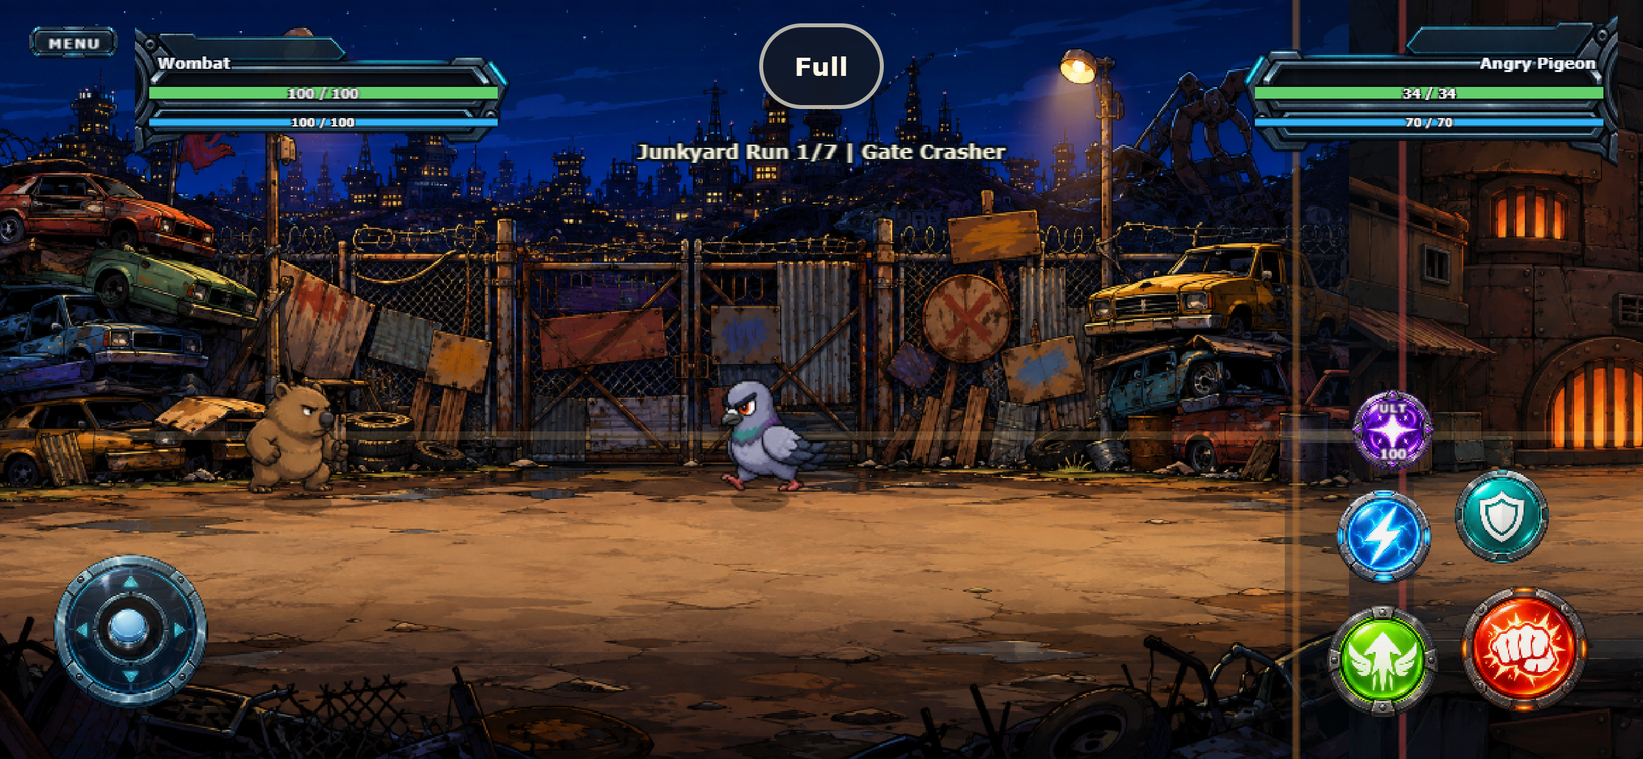
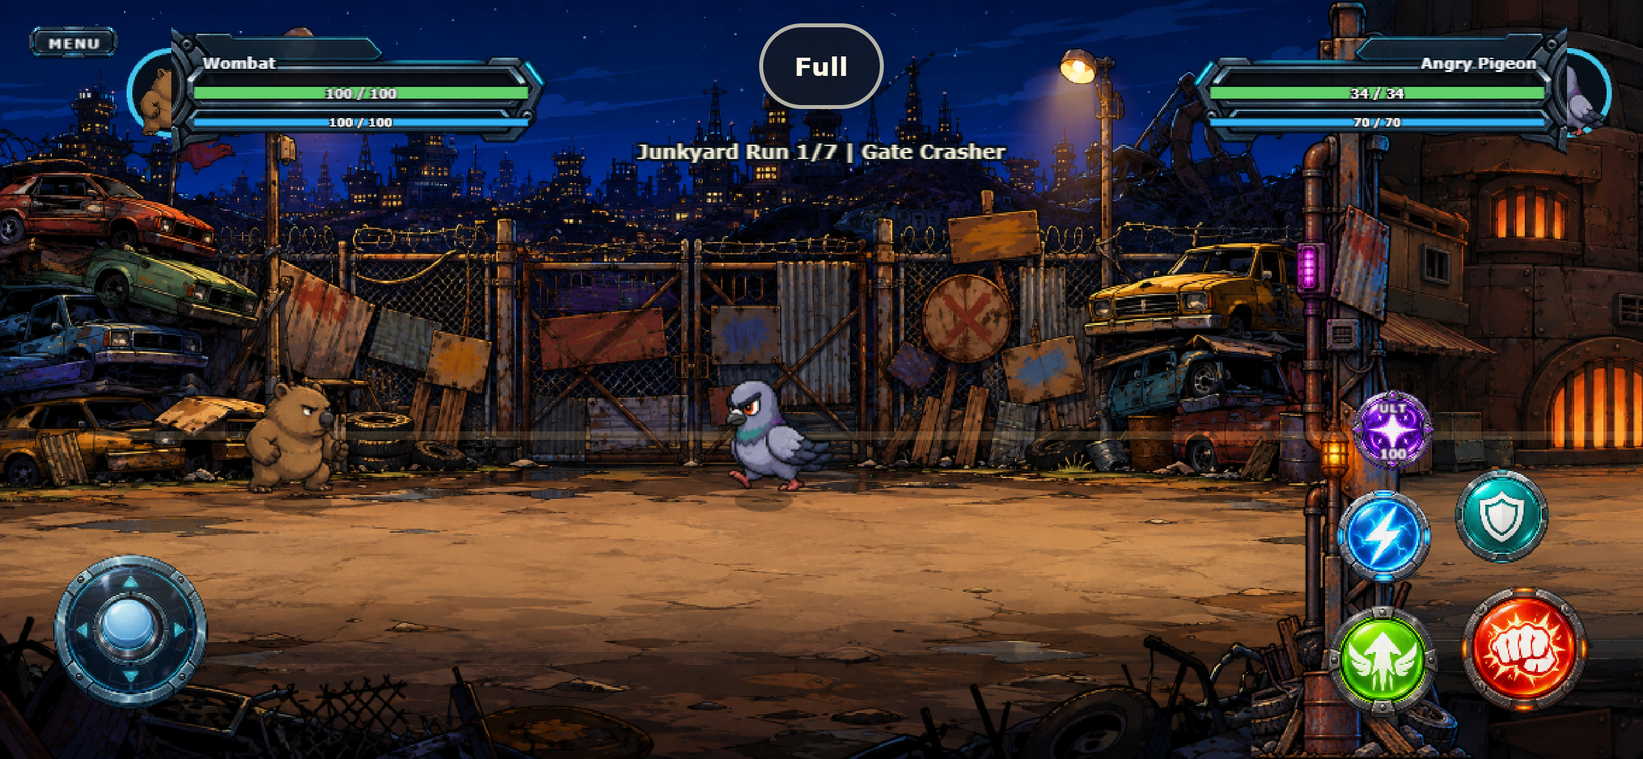
Polish battle HUD and zone transitions

diff --git a/src/game/ui/Hud.ts b/src/game/ui/Hud.ts
@@ -1,8 +1,11 @@
 import Phaser from 'phaser';
 import type { Fighter } from '../combat/Fighter';
-import { HUD_LAYOUT } from './HudLayout';
+import { getHudBarMetrics, HUD_LAYOUT } from './HudLayout';
 
 type BarElements = {
+  portraitBackdrop: Phaser.GameObjects.Arc;
+  portraitMaskShape: Phaser.GameObjects.Arc;
+  portrait: Phaser.GameObjects.Image;
   frame: Phaser.GameObjects.Image;
   label: Phaser.GameObjects.Text;
   hpBackground: Phaser.GameObjects.Rectangle;
@@ -13,13 +16,17 @@ type BarElements = {
   manaText: Phaser.GameObjects.Text;
   side: 'left' | 'right';
   y: number;
+  frameWidth: number;
+  isBossFrame: boolean;
 };
 
 const LARGE_FRAME_WIDTH = 270;
 const SMALL_FRAME_WIDTH = 218;
-const FRAME_HEIGHT_RATIO = 190 / 512;
+const PLAYER_FRAME_HEIGHT_RATIO = 190 / 512;
+const BOSS_FRAME_HEIGHT_RATIO = 160 / 512;
 const HP_BAR_HEIGHT = 12;
 const MANA_BAR_HEIGHT = 8;
+const PORTRAIT_ART_SIZE = 66;
 
 export class Hud {
   private readonly playerBar: BarElements;
@@ -29,12 +36,12 @@ export class Hud {
   constructor(scene: Phaser.Scene, viewportWidth: number) {
     this.viewportWidth = viewportWidth;
     this.playerBar = this.createBar(scene, HUD_LAYOUT.player.x, HUD_LAYOUT.player.y, 'Wombat', 'left');
-    this.enemyBar = this.createBar(scene, viewportWidth - 18, HUD_LAYOUT.enemy.y, 'Enemy', 'right');
+    this.enemyBar = this.createBar(scene, viewportWidth - HUD_LAYOUT.enemy.rightInset, HUD_LAYOUT.enemy.y, 'Enemy', 'right');
     this.layout(viewportWidth);
   }
 
   update(player: Fighter, enemy: Fighter | null, enemyLabelOverride?: string): void {
-    this.updateBar(this.playerBar, player.label, player.hp, player.maxHp, player.mana, player.maxMana);
+    this.updateBar(this.playerBar, player, player.label);
 
     if (!enemy) {
       this.setBarVisible(this.enemyBar, false);
@@ -43,19 +50,28 @@ export class Hud {
 
     this.setBarVisible(this.enemyBar, true);
     const isBoss = enemyLabelOverride?.startsWith('BOSS') ?? false;
-    this.enemyBar.frame.setTexture(isBoss ? 'ui-boss-hud-frame' : 'ui-player-hud-frame').setFlipX(!isBoss);
-    this.updateBar(this.enemyBar, enemyLabelOverride ?? enemy.label, enemy.hp, enemy.maxHp, enemy.mana, enemy.maxMana);
+    this.setFrameMode(this.enemyBar, isBoss);
+    this.updateBar(this.enemyBar, enemy, enemyLabelOverride ?? enemy.label);
   }
 
   layout(viewportWidth: number): void {
     this.viewportWidth = viewportWidth;
     const frameWidth = viewportWidth < 720 ? SMALL_FRAME_WIDTH : LARGE_FRAME_WIDTH;
     this.layoutBar(this.playerBar, HUD_LAYOUT.player.x, frameWidth);
-    this.layoutBar(this.enemyBar, viewportWidth - 18, frameWidth);
+    this.layoutBar(this.enemyBar, viewportWidth - HUD_LAYOUT.enemy.rightInset, frameWidth);
   }
 
   private createBar(scene: Phaser.Scene, x: number, y: number, label: string, side: 'left' | 'right'): BarElements {
     const isLeft = side === 'left';
+    const portraitBackdrop = scene.add.circle(x, y, HUD_LAYOUT.portraitRadius, 0x071019, 0.98)
+      .setStrokeStyle(4, isLeft ? 0x48d9ff : 0xff4ea5, 0.9)
+      .setDepth(1996).setScrollFactor(0);
+    const portraitMaskShape = scene.add.circle(x, y, HUD_LAYOUT.portraitRadius - 4, 0xffffff, 0.001)
+      .setDepth(1995).setScrollFactor(0);
+    const portrait = scene.add.image(x, y + 2, 'wombat', 0)
+      .setDisplaySize(PORTRAIT_ART_SIZE, PORTRAIT_ART_SIZE)
+      .setFlipX(!isLeft).setDepth(1997).setScrollFactor(0)
+      .setMask(portraitMaskShape.createGeometryMask());
     const frame = scene.add.image(x, y, isLeft ? 'ui-player-hud-frame' : 'ui-boss-hud-frame')
       .setOrigin(isLeft ? 0 : 1, 0.5).setDepth(1998).setScrollFactor(0).setAlpha(0.96);
     const text = scene.add.text(x, y + HUD_LAYOUT.labelOffsetY, label, {
@@ -77,7 +93,23 @@ export class Hud {
       .setOrigin(isLeft ? 0 : 1, 0.5).setDepth(2000).setScrollFactor(0);
     const manaText = this.createValueText(scene).setFontSize('8px');
 
-    return { frame, label: text, hpBackground, hpFill, hpText, manaBackground, manaFill, manaText, side, y };
+    return {
+      portraitBackdrop,
+      portraitMaskShape,
+      portrait,
+      frame,
+      label: text,
+      hpBackground,
+      hpFill,
+      hpText,
+      manaBackground,
+      manaFill,
+      manaText,
+      side,
+      y,
+      frameWidth: LARGE_FRAME_WIDTH,
+      isBossFrame: !isLeft,
+    };
   }
 
   private createValueText(scene: Phaser.Scene): Phaser.GameObjects.Text {
@@ -94,11 +126,15 @@ export class Hud {
   private layoutBar(bar: BarElements, x: number, frameWidth: number): void {
     const isLeft = bar.side === 'left';
     const direction = isLeft ? 1 : -1;
-    const barWidth = frameWidth - 22;
-    const insetX = x + direction * 10;
+    const { inset, width: barWidth } = getHudBarMetrics(frameWidth);
+    const insetX = x + direction * inset;
     const centerX = insetX + direction * barWidth * 0.5;
-    const frameHeight = frameWidth * FRAME_HEIGHT_RATIO;
+    const frameHeight = frameWidth * (bar.isBossFrame ? BOSS_FRAME_HEIGHT_RATIO : PLAYER_FRAME_HEIGHT_RATIO);
 
+    bar.frameWidth = frameWidth;
+    bar.portraitBackdrop.setPosition(x, bar.y);
+    bar.portraitMaskShape.setPosition(x, bar.y);
+    bar.portrait.setPosition(x, bar.y + 2);
     bar.frame.setPosition(x, bar.y).setDisplaySize(frameWidth, frameHeight);
     bar.label.setPosition(insetX + direction * 4, bar.y + HUD_LAYOUT.labelOffsetY);
     bar.label.setFontSize(frameWidth === SMALL_FRAME_WIDTH ? '9px' : `${HUD_LAYOUT.labelFontSize}px`);
@@ -110,12 +146,17 @@ export class Hud {
     bar.manaText.setPosition(centerX, bar.y + 21);
   }
 
-  private updateBar(bar: BarElements, label: string, hp: number, maxHp: number, mana: number, maxMana: number): void {
+  private updateBar(bar: BarElements, fighter: Fighter, label: string): void {
+    const { hp, maxHp, mana, maxMana } = fighter;
     const hpRatio = maxHp > 0 ? Phaser.Math.Clamp(hp / maxHp, 0, 1) : 0;
     const manaRatio = maxMana > 0 ? Phaser.Math.Clamp(mana / maxMana, 0, 1) : 0;
-    const frameWidth = this.viewportWidth < 720 ? SMALL_FRAME_WIDTH : LARGE_FRAME_WIDTH;
-    const barWidth = frameWidth - 22;
+    const { width: barWidth } = getHudBarMetrics(bar.frameWidth);
 
+    if (fighter.sprite) {
+      bar.portrait.setTexture(fighter.sprite.texture.key, 0).setVisible(true);
+    } else {
+      bar.portrait.setVisible(false);
+    }
     bar.label.setText(label);
     bar.hpText.setText(`${Math.ceil(hp)} / ${maxHp}`);
     bar.manaText.setText(`${Math.floor(mana)} / ${maxMana}`);
@@ -128,9 +169,18 @@ export class Hud {
   }
 
   private setBarVisible(bar: BarElements, visible: boolean): void {
-    for (const element of [bar.frame, bar.label, bar.hpBackground, bar.hpFill, bar.hpText,
+    for (const element of [bar.portraitBackdrop, bar.portrait, bar.frame, bar.label, bar.hpBackground, bar.hpFill, bar.hpText,
       bar.manaBackground, bar.manaFill, bar.manaText]) {
       element.setVisible(visible);
     }
+  }
+
+  private setFrameMode(bar: BarElements, isBoss: boolean): void {
+    if (bar.isBossFrame === isBoss) return;
+
+    bar.isBossFrame = isBoss;
+    bar.frame.setTexture(isBoss ? 'ui-boss-hud-frame' : 'ui-player-hud-frame').setFlipX(!isBoss);
+    bar.portraitBackdrop.setStrokeStyle(4, isBoss ? 0xff4ea5 : 0x48d9ff, 0.9);
+    this.layoutBar(bar, this.viewportWidth - HUD_LAYOUT.enemy.rightInset, bar.frameWidth);
   }
 }

diff --git a/src/game/scenes/BattleScene.ts b/src/game/scenes/BattleScene.ts
@@ -1148,14 +1148,11 @@ export class BattleScene extends Phaser.Scene {
           .setDepth(-100));
       }
       for (let index = 0; index < this.waveStage.zones.length - 1; index += 1) {
-        const currentZone = this.waveStage.zones[index];
-        const nextZone = this.waveStage.zones[index + 1];
-        const boundary = currentZone.maxX;
-        this.trackArenaVisual(this.add.rectangle(boundary, GAME_HEIGHT / 2, 92, GAME_HEIGHT, 0x07101b, 0.3).setDepth(-96));
-        this.trackArenaVisual(this.add.rectangle(boundary - 38, GAME_HEIGHT / 2, 5, GAME_HEIGHT, currentZone.transitionColor, 0.42).setDepth(-95));
-        this.trackArenaVisual(this.add.rectangle(boundary + 38, GAME_HEIGHT / 2, 5, GAME_HEIGHT, nextZone.transitionColor, 0.42).setDepth(-95));
-        this.trackArenaVisual(this.add.rectangle(boundary, JUNKYARD_WALKABLE_BAND.minY, 72, 10, 0xf5f0d8, 0.15).setDepth(-94));
-        this.trackArenaVisual(this.add.rectangle(boundary, JUNKYARD_WALKABLE_BAND.maxY, 72, 10, 0x10151e, 0.3).setDepth(-94));
+        const boundary = this.waveStage.zones[index].maxX;
+        this.trackArenaVisual(this.add.image(boundary, GAME_HEIGHT / 2, 'junkyard-zone-transition')
+          .setOrigin(70 / 180, 0.5)
+          .setDisplaySize(180, GAME_HEIGHT)
+          .setDepth(-94));
       }
       this.trackArenaVisual(this.add.rectangle(this.waveStage.worldWidth / 2, JUNKYARD_WALKABLE_BAND.minY,
         this.waveStage.worldWidth - 120, 6, 0xffd08a, 0.16).setDepth(-90));

diff --git a/tests/mobile-layout.test.ts b/tests/mobile-layout.test.ts
@@ -1,7 +1,7 @@
 import assert from 'node:assert/strict';
 import test from 'node:test';
 import { getMobileControlLayout } from '../src/game/core/MobileControlLayout';
-import { HUD_LAYOUT } from '../src/game/ui/HudLayout';
+import { getHudBarMetrics, HUD_LAYOUT } from '../src/game/ui/HudLayout';
 
 function circleFitsViewport(circle: { x: number; y: number; radius: number }, width: number, height: number): boolean {
   return circle.x - circle.radius >= 0
@@ -24,5 +24,15 @@ test('menu control clears the player HUD frame instead of covering it', () => {
   const layout = getMobileControlLayout(568, 320);
   const menuRight = layout.menu.x + layout.menu.width / 2;
 
-  assert.ok(HUD_LAYOUT.player.x > menuRight);
+  assert.ok(HUD_LAYOUT.player.x - HUD_LAYOUT.portraitRadius > menuRight);
+});
+
+test('HUD portraits fit onscreen and resource bars stay inside their raster frame bevels', () => {
+  const frameWidth = 270;
+  const metrics = getHudBarMetrics(frameWidth);
+
+  assert.ok(HUD_LAYOUT.enemy.rightInset > HUD_LAYOUT.portraitRadius);
+  assert.ok(metrics.inset >= 16);
+  assert.ok(metrics.width <= 238);
+  assert.ok(metrics.inset + metrics.width <= frameWidth - 16);
 });

diff --git a/src/game/core/MobileControls.ts b/src/game/core/MobileControls.ts
@@ -31,6 +31,7 @@ type TouchState = Omit<PlayerInputState, 'debugTogglePressed' | 'restartPressed'
 const JOYSTICK_RADIUS = 58;
 const JOYSTICK_DEADZONE = 0.15;
 const JOYSTICK_CAPTURE_RADIUS = 180;
+const JOYSTICK_KNOB_ART_SIZE = 84;
 const ART_OVERSCAN = 10;
 
 export class MobileControls {
@@ -227,7 +228,8 @@ export class MobileControls {
     this.joystickCenter.set(layout.joystick.x, layout.joystick.y);
     this.controls.base.setPosition(layout.joystick.x, layout.joystick.y);
     this.controls.baseArt.setPosition(layout.joystick.x, layout.joystick.y).setDisplaySize(132, 132);
-    this.controls.knobArt.setPosition(layout.joystick.x, layout.joystick.y).setDisplaySize(57, 57);
+    this.controls.knobArt.setPosition(layout.joystick.x, layout.joystick.y)
+      .setDisplaySize(JOYSTICK_KNOB_ART_SIZE, JOYSTICK_KNOB_ART_SIZE);
 
     for (const button of ['attack', 'special', 'ultimate', 'jump', 'defend'] as const) {
       const target = layout[button];

diff --git a/src/game/scenes/PreloadScene.ts b/src/game/scenes/PreloadScene.ts
@@ -16,6 +16,7 @@ export class PreloadScene extends Phaser.Scene {
     this.load.image('junkyard-run-scrap-gate', `${assetBase}arenas/junkyard-run/scrap_gate.png`);
     this.load.image('junkyard-run-furnace-yard', `${assetBase}arenas/junkyard-run/furnace_yard.png`);
     this.load.image('junkyard-run-neon-dump', `${assetBase}arenas/junkyard-run/neon_dump.png`);
+    this.load.image('junkyard-zone-transition', `${assetBase}arenas/junkyard-run/zone_transition.png`);
     this.load.image('rooftop-background', `${assetBase}arenas/rooftop/rooftop_background.png`);
     this.load.image('cs-background', `${assetBase}ui/character-select/character_select_backstage.png`);
     this.load.image('cs-panel-player', `${assetBase}ui/character-select/panel_player.png`);

diff --git a/tests/battle-ui-assets.test.ts b/tests/battle-ui-assets.test.ts
@@ -37,3 +37,16 @@ test('ultimate button keeps its purple star asset instead of the cyan joystick a
   assert.ok(opaqueColorRatio(ultimate, isPurple) > 0.25);
   assert.ok(opaqueColorRatio(joystick, isPurple) < 0.05);
 });
+
+test('Junkyard zone transition is a transparent full-height seam cover', () => {
+  const transition = PNG.sync.read(readFileSync(assetUrl('../../arenas/junkyard-run/zone_transition.png')));
+  let transparentPixels = 0;
+
+  for (let index = 3; index < transition.data.length; index += 4) {
+    if (transition.data[index] < 16) transparentPixels += 1;
+  }
+
+  assert.equal(transition.width, 180);
+  assert.equal(transition.height, 540);
+  assert.ok(transparentPixels / (transition.width * transition.height) > 0.45);
+});

diff --git a/src/game/ui/HudLayout.ts b/src/game/ui/HudLayout.ts
@@ -1,7 +1,16 @@
 export const HUD_LAYOUT = {
-  player: { x: 96, y: 66 },
-  // Keep this pure so it can be checked in the Node test suite without Phaser.
-  enemy: { x: 960 - 18, y: 66 },
+  player: { x: 122, y: 66 },
+  enemy: { rightInset: 54, y: 66 },
+  portraitRadius: 30,
   labelOffsetY: -30,
   labelFontSize: 11,
 } as const;
+
+const BAR_HORIZONTAL_INSET_RATIO = 0.06;
+
+// Keep the frame geometry pure so the Node suite can guard against bars spilling
+// over the beveled raster artwork again.
+export function getHudBarMetrics(frameWidth: number): { inset: number; width: number } {
+  const inset = frameWidth * BAR_HORIZONTAL_INSET_RATIO;
+  return { inset, width: frameWidth - inset * 2 };
+}

diff --git a/docs/16_CURRENT_ROADMAP.md b/docs/16_CURRENT_ROADMAP.md
@@ -5,13 +5,13 @@
 [Plan 31](31_GAMEPLAY_AND_WAVE_COMPLETION_PLAN.md) owns the gameplay execution order. G0 is complete; **G1–G7** are implemented and technically verified. Their combined manual gameplay, balance and real-device acceptance remains open. G8 is the next implementation bulk. [G7 evidence and open gates](qa/g7-runtime-2026-09-09/README.md) are the current status reference.
 
 - Normal players: Wombat, Discount Wizard, Budget Barbarian, Mara Breach. Buster Bulldog and Reference Fighter are Gym-only prototypes.
-- Typecheck, **96/96 tests** and build pass locally; G0 records six character-sheet hard gates and all three VFX-QA manifests passing.
+- Typecheck, **99/99 tests** and build pass locally; G0 records six character-sheet hard gates and all three VFX-QA manifests passing.
 - Junkyard Run has three zones and seven role-based encounters, now orchestrated by the Director with per-spawn entry direction/timing, same-zone sub-waves, safe zone travel, pressure budgets and phase-aware mana. Fighters stay on the painted floor; deterministic zone rewards heal the player; transition cards and group framing improve area changes.
 - Guard, directional Evade, Guard Break, Launch, Knockdown, Grounded, protected Wake-up and Anti-Stunlock are integrated across combat, G2 roles, Gym, keyboard and mobile input. Combined manual G1–G7 acceptance remains open.
 - Run activates from one sustained full direction on keyboard or touch. Every shippable fighter has one committed Dash Attack and a three-step Basic Chain with one queued follow-up, earlier hit continuation, later whiff continuation and a knockdown finisher. Air Bonk keeps its jump arc and repeated mid-air steering.
 - G6 adds a periodic Furnace vent, a deterministic one-use HP/MP lunchbox and the standalone Acting Foreman in Encounter 5. The Foreman uses a three-action pattern and can be knocked down by his own commanded vent.
 - G7 replaces Encounter 7 with the two-phase Overtime Supervisor. The boss changes pattern order and lane-denial geometry at half health, shares pressure budgets with one delayed add and owns controlled priority cleanup.
-- A pre-G8 UI polish step replaces the temporary vector touch circles with an ImageGen-authored industrial control set, moves Defend into the right-thumb fan, keeps Attack largest and promotes Jump to second-largest. Player, enemy and Boss HUD frames are also pulled forward from G9; the remaining G9 threat, camera and audio work stays open. See the [UI report](qa/ui-controls-2026-09-09/README.md).
+- A pre-G8 UI polish step replaces the temporary vector touch circles with an ImageGen-authored industrial control set, moves Defend into the right-thumb fan, keeps Attack largest and promotes Jump to second-largest. Player, enemy and Boss HUD frames are also pulled forward from G9. The 2026-09-10 correction fills their portrait sockets, contains HP/MP bars within the bevels, enlarges the joystick knob and replaces raw background seams with a transparent industrial transition prop; the remaining G9 threat, camera and audio work stays open. See the [UI report](qa/ui-controls-2026-09-09/README.md).
 - Scripted Phaser regression checks pass. Full-run gameplay acceptance, balance and two real-device classes remain open.
 - G0–G9 adds no player fighter or arena. Final art follows mechanical acceptance; broad architecture hardening remains G10.
 

diff --git a/docs/31_GAMEPLAY_AND_WAVE_COMPLETION_PLAN.md b/docs/31_GAMEPLAY_AND_WAVE_COMPLETION_PLAN.md
@@ -11,9 +11,9 @@
 
 **G0 abgeschlossen; G1–G7 implementiert und technisch geprüft, gemeinsame manuelle Spielgefühlabnahme offen. G8 ist der nächste Implementierungs-Bulk.** [G7-Prüfbericht](qa/g7-runtime-2026-09-09/README.md) · [G6-Prüfbericht](qa/g6-runtime-2026-09-09/README.md) · [G5-Prüfbericht](qa/g5-runtime-2026-09-09/README.md) · [G4-Prüfbericht](qa/g4-runtime-2026-09-08/README.md) · [G3-Prüfbericht](qa/g3-runtime-2026-09-08/README.md) · [G2-Prüfbericht](qa/g2-runtime-2026-09-06/README.md) · [G1-Prüfbericht](qa/g1-runtime-2026-09-05/README.md) · [Historische G0-Baseline](qa/gameplay-baseline-2026-09-05/README.md) · [Einheitliche Run-Messvorlage](qa/gameplay-run-template.md).
 
-Technisch geprüft: 96/96 Tests, Typecheck und Production Build. G7 ersetzt Encounter 7 durch den zweiphasigen Overtime Supervisor mit Timecard Swipe, phasenabhängigem Lane Lockdown, Shift Change, eigenem Boss-HUD und einem über den Director begrenzten Add. Die G7-Browserprüfung umfasst 63 echte Phaser-Checks in Desktop- und Mobile-Auflösung. G1–G6 bestehen in der aktuellen Regression mit 679/57/280/29/80/51 Checks.
+Technisch geprüft: 99/99 Tests, Typecheck und Production Build. G7 ersetzt Encounter 7 durch den zweiphasigen Overtime Supervisor mit Timecard Swipe, phasenabhängigem Lane Lockdown, Shift Change, eigenem Boss-HUD und einem über den Director begrenzten Add. Die G7-Browserprüfung umfasst 63 echte Phaser-Checks in Desktop- und Mobile-Auflösung. G1–G6 bestehen in der aktuellen Regression mit 679/57/280/29/80/51 Checks.
 
-Zusatzauftrag Mobile/UI: Querformat-Skalierung und Rotation korrigiert. Der UI-Zwischenschritt vom 09.09. ersetzt Joystick und fünf Aktionsbuttons durch optimierte, textfreie Produktionsassets, ordnet alle Aktionen als ergonomischen rechten Daumenfächer an und zieht die hochwertigen Player-/Enemy-/Boss-HUD-Rahmen aus G9 vor. Touch-Zonen bleiben code-owned, getrennt und getestet. [UI-Prüfung](qa/ui-controls-2026-09-09/README.md) · [ursprüngliche Mobile-Prüfung](qa/mobile-2026-09-05/README.md).
+Zusatzauftrag Mobile/UI: Querformat-Skalierung und Rotation korrigiert. Der UI-Zwischenschritt vom 09.09. ersetzt Joystick und fünf Aktionsbuttons durch optimierte, textfreie Produktionsassets, ordnet alle Aktionen als ergonomischen rechten Daumenfächer an und zieht die hochwertigen Player-/Enemy-/Boss-HUD-Rahmen aus G9 vor. Die Korrektur vom 10.09. vergrößert den Stick-Knauf, setzt Fighter-Portraits in die vorgesehenen Kreise, fasst HP/MP vollständig ein und kaschiert Zonenbildnähte mit einem transparenten Stage-Prop. Touch-Zonen bleiben code-owned, getrennt und getestet. [UI-Prüfung](qa/ui-controls-2026-09-09/README.md) · [ursprüngliche Mobile-Prüfung](qa/mobile-2026-09-05/README.md).
 
 **Präzisierte Abhängigkeiten aus dem Codeabgleich:**
 

diff --git a/docs/22_HANDOFF_FOR_NEW_CHAT.md b/docs/22_HANDOFF_FOR_NEW_CHAT.md
@@ -7,7 +7,7 @@ Last updated: 2026-09-09
 Read [plan 31](31_GAMEPLAY_AND_WAVE_COMPLETION_PLAN.md) first and the [G0 baseline with logs](qa/gameplay-baseline-2026-09-05/README.md) second. The current task is gameplay and Wave completion. The historical VFX-first recommendations and knockdown exclusion below do not override this plan.
 
 - Four normal players: Wombat, Discount Wizard, Budget Barbarian and Mara Breach. Normal Duel enemies: Pigeon and Wizard. Buster Bulldog and Reference Fighter are Gym-only prototypes, not normal Character Select options.
-- The current code passes Typecheck, **96/96 tests**, production build, the current G1–G7 browser suites, **6/6** character-sheet gates and VFX QA **6/6 + 5/5 + 4/4**. Character QA includes a prototype and is not a roster count or visual acceptance.
+- The current code passes Typecheck, **99/99 tests**, production build, the current G1–G7 browser suites, **6/6** character-sheet gates and VFX QA **6/6 + 5/5 + 4/4**. Character QA includes a prototype and is not a roster count or visual acceptance.
 - Junkyard Run has three zones and seven role-based encounters with a tested Director, safe visible entry, floor bounds, group camera framing, health rewards and phase-aware mana. No mana regeneration during safe travel, transition or results.
 - G4 supplies Guard/Evade, anti-stunlock and the complete Knockdown/Wake-up lifecycle. G5 supplies Run, four Dash Attacks, four three-step Basic-Chains and steerable Air Bonk. G6 supplies the two Stage-interaction types, deterministic lunchbox and Acting Foreman midboss. G7 supplies the two-phase Overtime Supervisor, phase-aware Boss HUD, lane lockdown, Shift Change and priority cleanup. See the [G7 report](qa/g7-runtime-2026-09-09/README.md).
 - Mobile/UI follow-up: corrected FIT resizing and rotation remain intact. An ImageGen-authored industrial control set now supplies a split joystick and five icon-first action buttons. Attack is largest, Jump second-largest, and Defend has moved into the right-thumb fan. Player/enemy/Boss HUD frames were pulled forward from G9. Stable code-owned hit circles, rotation and actual edge-touch events pass browser emulation; [UI evidence](qa/ui-controls-2026-09-09/README.md). Physical-device acceptance remains open.

diff --git a/docs/qa/ui-controls-2026-09-09/README.md b/docs/qa/ui-controls-2026-09-09/README.md
@@ -21,6 +21,7 @@ Alle finalen, weboptimierten PNGs liegen unter `public/assets/ui/battle/`:
   `defend_button.png`, `ultimate_button.png`
 - `joystick_base.png`, `joystick_knob.png`
 - `player_hud_frame.png`, `boss_hud_frame.png`, `compact_button.png`
+- `arenas/junkyard-run/zone_transition.png` als transparente, begehbare Nahtkaschierung
 
 Die Action-Assets sind textfrei. Dynamische Kosten und Systemtexte bleiben im Code,
 damit sie scharf, korrekt und lokalisierbar sind. Normale Gegner verwenden den
@@ -38,9 +39,23 @@ Ember-Rot (Fist), Lime (Jump), Cyan (Lightning), Teal (Shield) und Royal Purple
 und Systembutton wurden leere cyan-neutrale beziehungsweise magenta/orange Bossrahmen
 im selben Materialstil erzeugt.
 
+## Korrektur vom 2026-09-10
+
+Der sichtbare Stick-Knauf füllt nun den vorgesehenen Innenring aus. Player, Gegner und
+Boss erhalten echte, kreisförmig maskierte Fighter-Portraits in den zuvor leer wirkenden
+Rahmenansätzen. HP- und MP-Balken verwenden gemeinsame Innenmaße und bleiben innerhalb
+der dunklen Rahmenflächen. Die provisorischen senkrechten Farbstreifen zwischen den drei
+Zonen wurden durch einen schmalen, transparenten Industriesträger ersetzt, dessen Säule
+exakt auf der jeweiligen Hintergrundnaht sitzt und die Laufebene offen lässt.
+
+Das Übergangsasset entstand im eingebauten ImageGen-Modus aus den drei vorhandenen
+Junkyard-Hintergründen als Stilreferenzen. Finaler Prompt: transparenter, frontaler
+Schrottplatz-Stützpfeiler mit abgenutztem Stahl, Rohren, Bolzen sowie dezenten Cyan-,
+Magenta- und Ofenlichtern; keine Schrift, Figuren, Wand oder geschlossene Tür.
+
 ## Verifikation
 
-- 97/97 Unit-Tests bestanden. Ein Asset-Regressionstest verhindert, dass der violette
+- 99/99 Unit-Tests bestanden. Asset-Regressionstests verhindern, dass der violette
   Ultimate-Button erneut mit der cyanfarbenen Joystick-Grafik vertauscht wird.
 - Typecheck und Production Build bestanden.
 - Mobile Runtime: Landscape, Portrait-Rotation und Wide Landscape ohne Verzerrung.

diff --git a/README.md b/README.md
@@ -6,6 +6,6 @@ Ein comic-hafter 2.5D-Arcade-Brawler mit kurzen Sessions, klaren Trefferreaktion
 
 ## Entwicklung
 
-Der aktuelle Arbeitsbereich ist der [Gameplay- und Wave-Completion-Plan](docs/31_GAMEPLAY_AND_WAVE_COMPLETION_PLAN.md). G1–G5 sind implementiert und technisch geprüft: Der `Junkyard Run` besitzt sieben Encounter, rollenbasierten Gruppendruck, Guard/Evade, Knockdown, Run/Dash-Angriffe und dreistufige Basic-Chains. Air Bonk behält die Sprungbewegung und lässt sich in der Luft wiederholt steuern. Als Nächstes folgt G6 mit Stage-Interaktionen, deterministischem Pickup und Midboss; die gemeinsame manuelle Spielgefühl-, Balance- und Realgeräteabnahme bleibt offen. [G5-Prüfbericht](docs/qa/g5-runtime-2026-09-09/README.md).
+Der aktuelle Arbeitsbereich ist der [Gameplay- und Wave-Completion-Plan](docs/31_GAMEPLAY_AND_WAVE_COMPLETION_PLAN.md). G1–G7 sind implementiert und technisch geprüft: Der `Junkyard Run` besitzt sieben Encounter, rollenbasierten Gruppendruck, Guard/Evade, Knockdown, Run/Dash-Angriffe, Stage-Interaktionen, Midboss und einen zweiphasigen Endboss. Der vorgezogene UI-Schritt liefert professionelle Touch-Controls, gefüllte Fighter-Portraits, korrekt eingefasste Ressourcenbalken und kaschierte Zonenübergänge. Als Nächstes folgt G8 mit Ressourcen- und Gesamtbalance; die gemeinsame manuelle Spielgefühl-, Balance- und Realgeräteabnahme bleibt offen. [G7-Prüfbericht](docs/qa/g7-runtime-2026-09-09/README.md).
 
 [Dokumentationsindex](docs/README.md) · [Geprüfte G0-Baseline](docs/qa/gameplay-baseline-2026-09-05/README.md) · [Run-Messvorlage](docs/qa/gameplay-run-template.md) · [VFX-Standards](docs/27_BULK_4_UNIFIED_VFX_PRODUCTION_PLAN.md)
